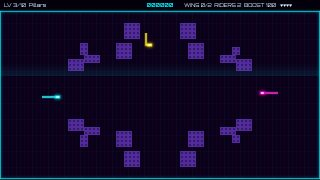
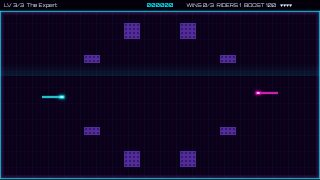
Give Light Cycles three levels and an End of Line ending (gi3)
Claude-Session: https://claude.ai/code/session_016R86i3evNakTHXcnyVkEfD

diff --git a/internal/generator/templates/themes/neon/game.js b/internal/generator/templates/themes/neon/game.js
@@ -4,7 +4,10 @@
  * A grid arena in which every cycle drags a solid wall of light behind it.
  * Touching any wall, block or the arena edge derezzes the rider (and takes its
  * wall with it). The player outlasts every AI rider to win a round and needs a
- * number of round wins to clear the level; a lost round costs a life.
+ * number of round wins to clear the level; a lost round costs a life. Three
+ * levels: a first ride against two easy riders, a crowded arena with hunters,
+ * blocks and fading trails, and a duel series with an expert in a collapsing
+ * arena.
  *
  * SPACE boosts on a limited charge. The charge comes back slowly, faster from
  * energy pods, and fastest by "grinding": riding right alongside another
@@ -40,27 +43,22 @@
         rookie: { look: 4, flood: 0, aggr: 0, wobble: 0.03, miss: 0.06, jitter: 6, boost: false },
         scout: { look: 8, flood: 20, aggr: 0, wobble: 0.015, miss: 0.06, jitter: 5, boost: false },
         hunter: { look: 10, flood: 60, aggr: 0.3, wobble: 0.005, miss: 0.045, jitter: 3, boost: true },
-        ace: { look: 12, flood: 200, aggr: 0.4, wobble: 0, miss: 0.03, jitter: 2, boost: true },
         expert: { look: 14, flood: 300, aggr: 0.35, wobble: 0, miss: 0.025, jitter: 2, boost: true }
     };
 
     // need: round wins to clear; speed: cells per second; decay: trail length
     // in cells before the wall fades; shrink: seconds until the first ring
-    // collapses and between rings. The slope is gentle on purpose (speeds of
-    // 12 to 18, slow collapses, two wins on every level but the last): a
-    // casual player who sees the arena a quarter second late should still
-    // clear level 10 in most tries with the four lives.
+    // collapses and between rings. The slope is gentle on purpose: a casual
+    // player who sees the arena a quarter second late should still win the
+    // expert duel in most tries with the four lives.
     var LEVELS = [
-        { need: 2, speed: 12, riders: ['rookie'] },
-        { need: 2, speed: 13, riders: ['rookie', 'scout'] },
-        { need: 2, speed: 14, riders: ['scout', 'scout'], layout: 'pillars', blocks: 5 },
-        { need: 2, speed: 15, riders: ['scout', 'hunter', 'rookie'], pods: true },
-        { need: 2, speed: 15, riders: ['hunter', 'scout', 'rookie'], pods: true, decay: 70 },
-        { need: 2, speed: 16, riders: ['hunter', 'hunter', 'rookie', 'rookie'], pods: true, layout: 'bars', blocks: 6 },
-        { need: 2, speed: 16, riders: ['ace', 'hunter', 'scout', 'rookie'], pods: true, decay: 90, layout: 'pillars', blocks: 4 },
-        { need: 2, speed: 17, riders: ['hunter', 'scout', 'scout'], pods: true, shrink: { start: 12, every: 7 } },
-        { need: 2, speed: 18, riders: ['hunter', 'hunter', 'scout', 'rookie', 'rookie'], pods: true, decay: 110, layout: 'bars', blocks: 4, shrink: { start: 14, every: 7 } },
-        { need: 3, speed: 18, riders: ['expert'], pods: true, layout: 'pillars', blocks: 2, shrink: { start: 12, every: 6 } }
+        // Grid Zero: two easy riders and the first energy pods.
+        { need: 2, speed: 12, riders: ['rookie', 'scout'], pods: true },
+        // Fading Light: a hunter that boosts and cuts off, bars to ride
+        // around, and trails that fade until they lock.
+        { need: 2, speed: 15, riders: ['hunter', 'scout', 'rookie'], pods: true, decay: 80, layout: 'bars', blocks: 5 },
+        // The Expert: a duel series in an arena that collapses ring by ring.
+        { need: 3, speed: 17, riders: ['expert'], pods: true, layout: 'pillars', blocks: 2, shrink: { start: 12, every: 6 } }
     ];
 
     // ------------------------------------------------------------------
@@ -713,6 +711,102 @@
         drawMessages(s, ctx);
     }
 
+    // ------------------------------------------------------------------
+    // The ending: light cycles race up out of the grid and burst into neon
+    // fireworks, while the player's cyan cycle laps the floor below
+    // ------------------------------------------------------------------
+
+    var END_COLORS = [C.cyan, C.magenta, C.yellow, '#ff7a1a', '#5dff6e'];
+    var END_SPEED = 520, END_BURST = 1.3, END_FLOOR = 472;
+
+    function launchRider(e) {
+        var r = e.rng, x = (8 + Math.floor(r() * 64)) * CELL;
+        return {
+            x: x, y: G.H, pts: [{ x: x, y: G.H }], dir: 3, age: 0, turn: 0.2 + r() * 0.2, back: 0,
+            fuse: 0.6 + r() * 0.3, color: END_COLORS[Math.floor(r() * END_COLORS.length)]
+        };
+    }
+
+    // A rider climbs, jinks sideways once and climbs on: every turn is a
+    // corner of its wall, like in the arena.
+    function moveRider(e, c, dt) {
+        c.age += dt;
+        if (c.dir === 3 && !c.back && c.age >= c.turn) {
+            c.dir = e.rng() < 0.5 ? 0 : 2; c.back = c.age + 0.1 + e.rng() * 0.12;
+            c.pts.push({ x: c.x, y: c.y });
+        } else if (c.dir !== 3 && c.age >= c.back) {
+            c.dir = 3;
+            c.pts.push({ x: c.x, y: c.y });
+        }
+        c.x += DX[c.dir] * END_SPEED * dt; c.y += DY[c.dir] * END_SPEED * dt;
+    }
+
+    // The scene keeps its riders and bursts in e.data and steps them by the
+    // time since the last frame.
+    function stepEnding(e) {
+        var d = e.data, dt = Math.min(0.05, e.t - (d.last || 0)), i;
+        d.last = e.t;
+        if (!d.riders) { d.riders = []; d.bursts = []; d.next = 0; }
+        if ((d.next -= dt) <= 0 && d.riders.length < 6) { d.riders.push(launchRider(e)); d.next = 0.3 + e.rng() * 0.4; }
+        for (i = d.riders.length - 1; i >= 0; i--) {
+            var c = d.riders[i];
+            moveRider(e, c, dt);
+            if (c.age < c.fuse) continue;
+            c.pts.push({ x: c.x, y: c.y });
+            d.bursts.push({ x: c.x, y: c.y, age: 0, color: c.color, pts: c.pts });
+            d.riders.splice(i, 1);
+        }
+        for (i = d.bursts.length - 1; i >= 0; i--) if ((d.bursts[i].age += dt) > END_BURST) d.bursts.splice(i, 1);
+    }
+
+    // The arena's wall look: a wide soft stroke, a bright core, a white line.
+    function glowStroke(ctx, color, alpha) {
+        ctx.lineJoin = 'miter'; ctx.lineCap = 'butt';
+        ctx.strokeStyle = color;
+        ctx.globalAlpha = 0.28 * alpha; ctx.lineWidth = 9; ctx.stroke();
+        ctx.globalAlpha = alpha; ctx.lineWidth = 4; ctx.stroke();
+        ctx.strokeStyle = 'rgba(255,255,255,0.75)'; ctx.lineWidth = 1.2; ctx.stroke();
+        ctx.globalAlpha = 1;
+    }
+
+    function wallPath(ctx, pts, hx, hy) {
+        ctx.beginPath();
+        ctx.moveTo(pts[0].x, pts[0].y);
+        for (var k = 1; k < pts.length; k++) ctx.lineTo(pts[k].x, pts[k].y);
+        ctx.lineTo(hx, hy);
+    }
+
+    // The wall fades fast; eight rays of light fly out and a square ring
+    // grows behind them.
+    function drawBurst(ctx, b) {
+        var f = b.age / END_BURST, fade = 1 - f, r = 20 + 230 * Math.sqrt(f);
+        if (b.age < 0.5) { wallPath(ctx, b.pts, b.x, b.y); glowStroke(ctx, b.color, 1 - b.age / 0.5); }
+        ctx.beginPath();
+        for (var k = 0; k < 8; k++) {
+            var cx = Math.cos(k * Math.PI / 4), sy = Math.sin(k * Math.PI / 4);
+            ctx.moveTo(b.x + cx * r * 0.55, b.y + sy * r * 0.55);
+            ctx.lineTo(b.x + cx * r, b.y + sy * r);
+        }
+        glowStroke(ctx, b.color, fade);
+        ctx.beginPath();
+        ctx.rect(b.x - r * 0.4, b.y - r * 0.4, r * 0.8, r * 0.8);
+        glowStroke(ctx, b.color, fade * 0.6);
+    }
+
+    function drawEnding(e, ctx) {
+        stepEnding(e);
+        var d = e.data, x = (e.t * 360) % (G.W + 400) - 120;
+        d.riders.forEach(function (c) {
+            wallPath(ctx, c.pts, c.x, c.y); glowStroke(ctx, c.color, 1);
+            ctx.fillStyle = '#ffffff'; ctx.fillRect(c.x - 4, c.y - 4, 8, 8);
+        });
+        d.bursts.forEach(function (b) { drawBurst(ctx, b); });
+        ctx.beginPath(); ctx.moveTo(x - 280, END_FLOOR); ctx.lineTo(x, END_FLOOR);
+        glowStroke(ctx, C.cyan, 1);
+        ctx.fillStyle = C.cyan; ctx.fillRect(x - 8, END_FLOOR - 4.5, 16, 9);
+        ctx.fillStyle = '#ffffff'; ctx.fillRect(x - 4, END_FLOOR - 2.25, 8, 4.5);
+    }
+
     function hud(s) {
         if (s.touch) return s.wins + '/' + s.cfg.need + '  AI ' + ridersAlive(s) + '  BOOST ' + Math.round(s.me.charge * 100);
         return 'WINS ' + s.wins + '/' + s.cfg.need + '  RIDERS ' + ridersAlive(s) + '  BOOST ' + Math.round(s.me.charge * 100);
@@ -727,7 +821,7 @@
             'Recharge: yellow pods or ride beside a rival wall',
             'Win the rounds shown; crashing costs a life'
         ],
-        levelNames: ['Grid Zero', 'Crossfire', 'Pillars', 'Overclock', 'Fading Light', 'The Maze', 'Ghost Trails', 'Collapse', 'Meltdown', 'The Expert'],
+        levelNames: ['Grid Zero', 'Fading Light', 'The Expert'],
         colors: { bg: C.bg, fg: C.fg, accent: C.cyan, dim: C.dim },
         lives: 4,
         music: {
@@ -744,6 +838,13 @@
         init: init, update: update, draw: draw, hud: hud,
         // Grid turns: one direction at a time, so a thumb a little off axis
         // never queues a second turn. B is unused.
-        touch: { a: 'BOOST', hide: ['b'], dirs: 4 }
+        touch: { a: 'BOOST', hide: ['b'], dirs: 4 },
+        ending: {
+            title: 'END OF LINE',
+            text: 'The last rider derezzes, and the grid lights up for you',
+            colors: END_COLORS,
+            fireworks: false,
+            draw: drawEnding
+        }
     });
 })();

diff --git a/docs/games.md b/docs/games.md
@@ -593,11 +593,15 @@ not a requirement.
 
 ### neon — Light Cycles (tron arena)
 Grid arena. Every cycle leaves a solid wall of light; hitting any wall
-destroys you. `arrows` turn, `SPACE` boost (limited charge). Outlast every AI
-rider; win the required number of rounds to clear the level. Levels: more and
-smarter riders (they look ahead and cut you off), faster cycles, arena
-obstacles, trails that decay, a shrinking arena from level 8, level 10 is a
-duel series against an expert. Neon glow, pentatonic synth lead.
+destroys you. `arrows` turn, `SPACE` boost (limited charge, refilled by
+yellow pods and by riding beside a rival's wall). Outlast every AI rider; win
+the required number of rounds to clear the level. Levels: 1 *Grid Zero*, two
+easy riders and the first energy pods; 2 *Fading Light*, three riders
+including a hunter that boosts and cuts you off, bars to ride around, and
+trails that fade until they lock; 3 *The Expert*, the finale: a first-to-three
+duel series against an expert rider in an arena that collapses ring by ring.
+The ending, *End of Line*, sends light cycles racing up out of the grid until
+their trails burst into neon fireworks. Neon glow, pentatonic synth lead.
 
 ### noir — Midnight Alley (crosshair gallery shooter)
 A rainy alley front: windows, doors, a parked car. Gangsters pop out and take
